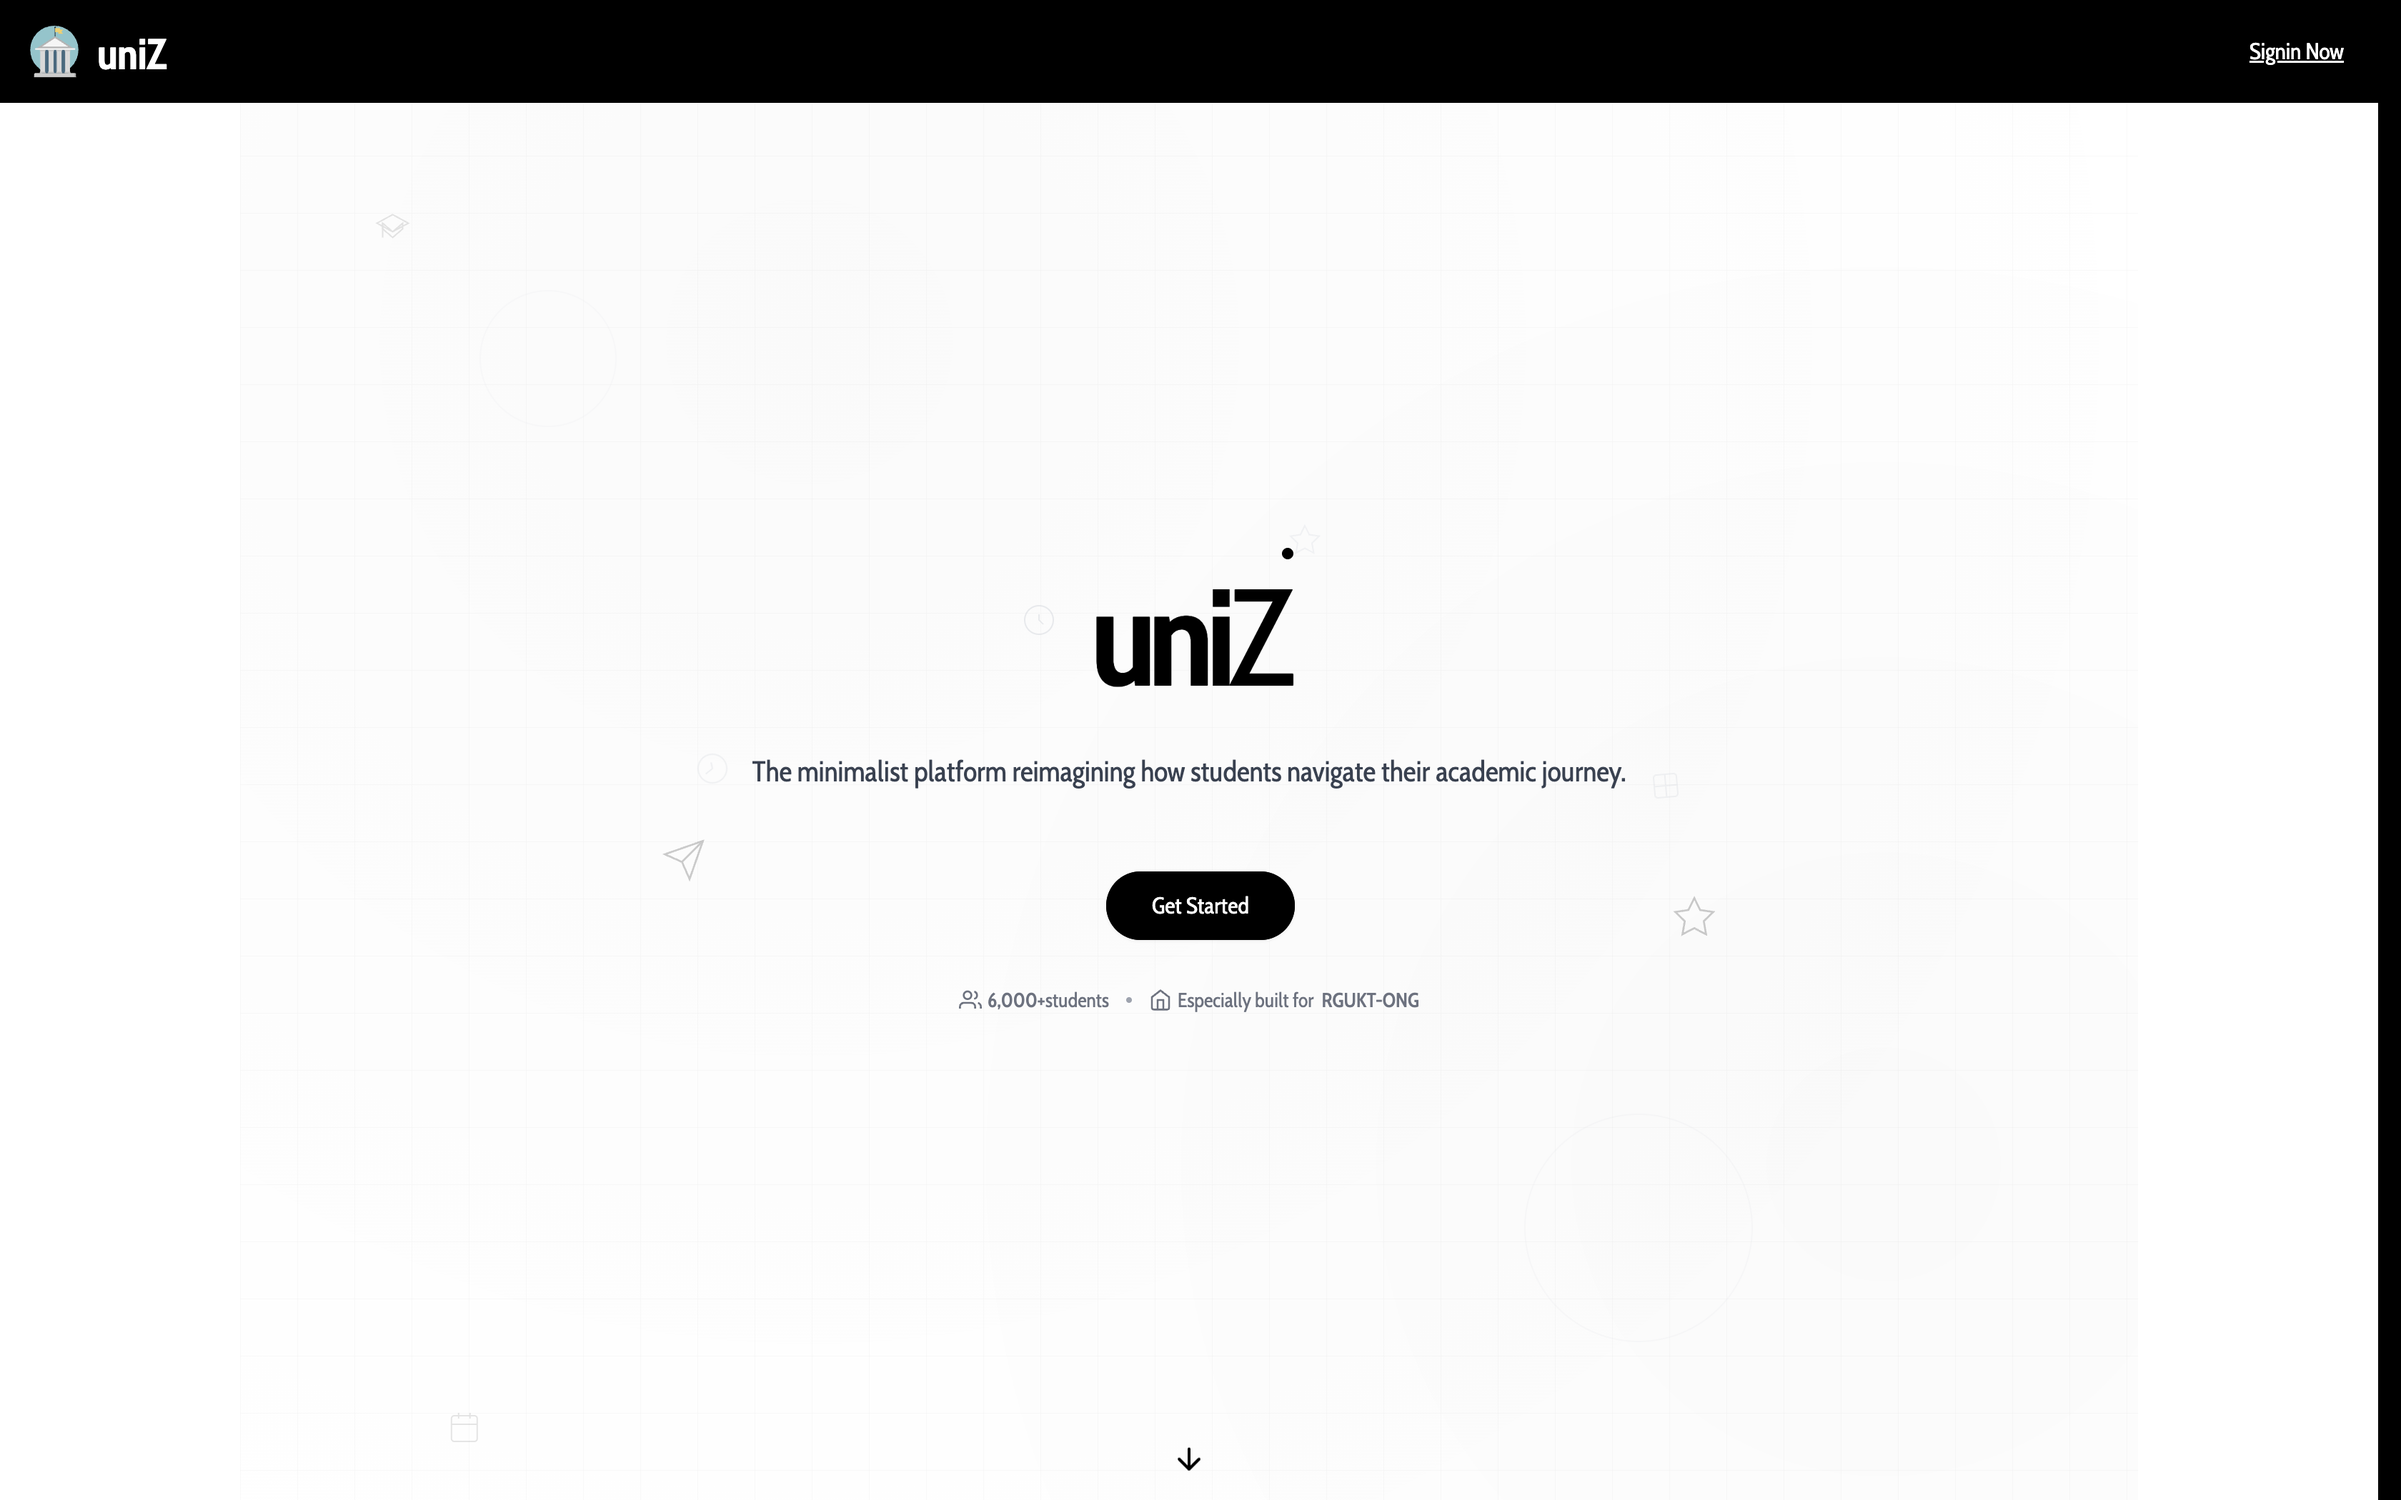
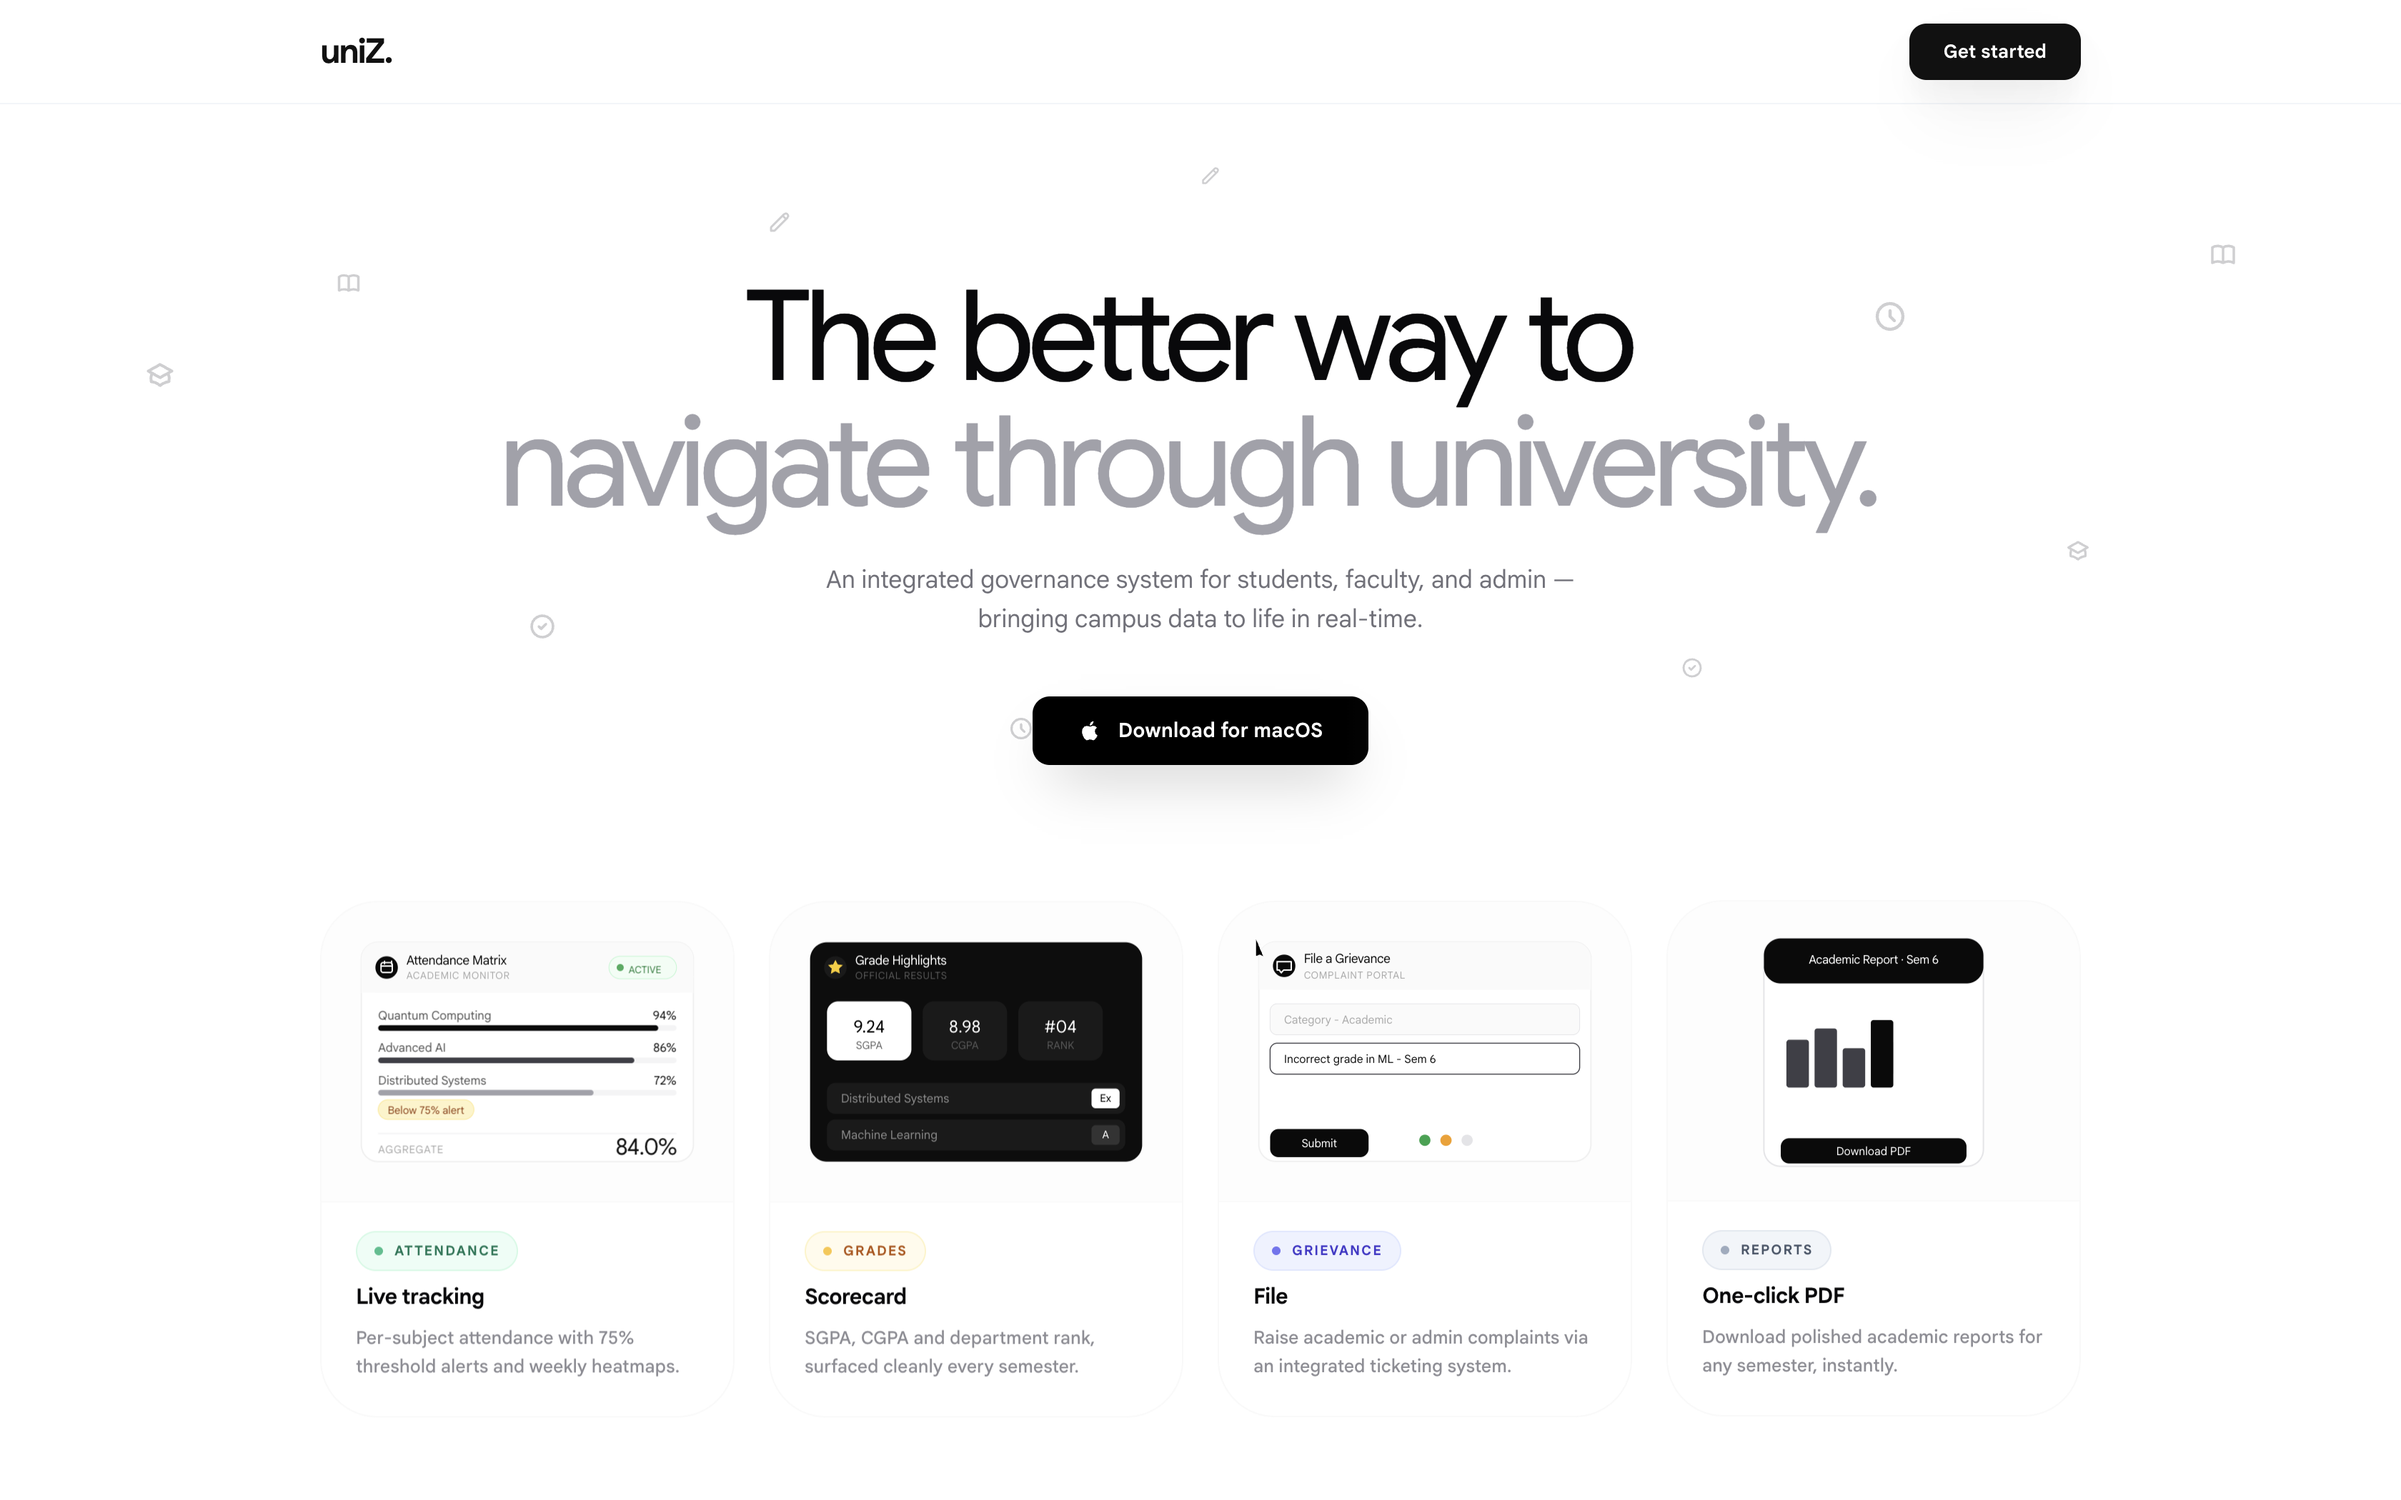
feat: add OG and Twitter meta tags to portal and fix deployment environment

diff --git a/apps/uniz-portal/index.html b/apps/uniz-portal/index.html
@@ -20,6 +20,15 @@
     <link rel="preconnect" href="https://fonts.googleapis.com" />
     <link rel="preconnect" href="https://fonts.gstatic.com" crossorigin />
     <meta name="robots" content="index, follow" />
+    <meta property="og:title" content="uniZ - reimagining how students navigate" />
+    <meta property="og:description" content="The unified platform for RGUKT students to manage academics, outpasses, and more." />
+    <meta property="og:image" content="/og-image.png" />
+    <meta property="og:url" content="https://uniz.rguktong.in" />
+    <meta property="og:type" content="website" />
+    <meta name="twitter:card" content="summary_large_image" />
+    <meta name="twitter:title" content="uniZ - reimagining how students navigate" />
+    <meta name="twitter:description" content="The unified platform for RGUKT students to manage academics, outpasses, and more." />
+    <meta name="twitter:image" content="/og-image.png" />
 
     <!-- Preload fonts -->
     <link
